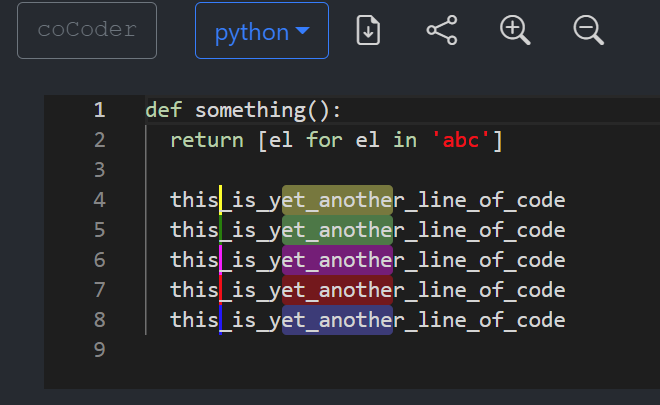
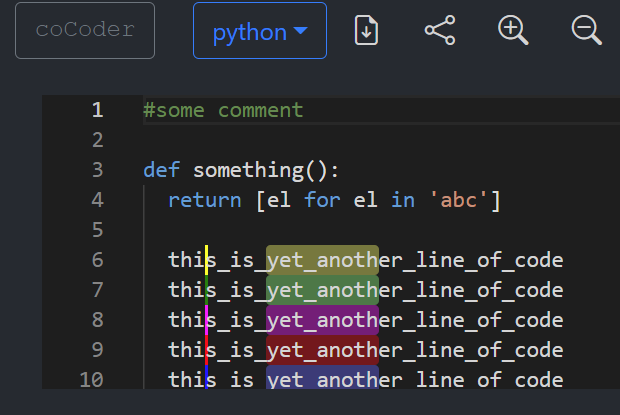
correction of handling themes

diff --git a/ui/src/app/editor.service.ts b/ui/src/app/editor.service.ts
@@ -22,7 +22,6 @@ export class EditorService implements OnDestroy {
   editor?: monaco.editor.IStandaloneCodeEditor;
   language!: string;
   fontSize: number;
-  theme: string;
   oldDecorations: string[];
   currentDecorations: DecorationDescription[];
   editsSubject: Subject<void>;
@@ -40,7 +39,7 @@ export class EditorService implements OnDestroy {
     private themeService: ThemeService,
     private editorControllerService: EditorControllerService,
     private fileSaverService: FileSaverService) {
-    this.theme = themeService.editorThemeName();
+    monaco.editor.setTheme(themeService.editorThemeName());
 
     this.oldDecorations = [];
     this.currentDecorations = [];
@@ -60,7 +59,7 @@ export class EditorService implements OnDestroy {
       next: _ => {
         this.fileSaverService.saveText(this.Text(), `code.${this.GetLanguageExtension()}`);
       }
-    })
+    });
   }
 
   GetLanguageExtension(): string {
@@ -151,18 +150,11 @@ export class EditorService implements OnDestroy {
     )
   }
 
-  createOptions(): monaco.editor.IStandaloneEditorConstructionOptions {
-    return {
-      theme: this.theme,
-    }
-  }
-
   updateOptions() {
     this.editor!.updateOptions({
       cursorBlinking: 'smooth',
       fontSize: this.fontSize,
       showUnused: true,
-      theme: this.theme,
       scrollbar: {
         verticalScrollbarSize: 0,
       },
@@ -274,8 +266,7 @@ export class EditorService implements OnDestroy {
   }
 
   SetTheme(t: string) {
-    this.theme = t;
-    this.updateOptions();
+    monaco.editor.setTheme(t);
   }
 
   userToDecoration(u: User): DecorationDescription {

diff --git a/ui/src/app/session-view/session-view.component.spec.ts b/ui/src/app/session-view/session-view.component.spec.ts
@@ -24,7 +24,9 @@ describe('SessionViewComponent', () => {
   let themeService: ThemeService;
   let sessionObservable: Observable<EditResponse>;
 
-  let testText = `def something():
+  let testText = `#some comment
+  
+def something():
   return [el for el in 'abc']
   
   this_is_yet_another_line_of_code
@@ -131,7 +133,7 @@ describe('SessionViewComponent', () => {
 });
 
 function generateCursors(): User[] {
-  const firstUserPosition = 59;
+  const firstUserPosition = 77;
   const selectionStartAddition = 5;
   const selectionEndAddition = 14;
   const userOffset = 36;

diff --git a/ui/src/app/session-view/session-view.component.ts b/ui/src/app/session-view/session-view.component.ts
@@ -140,8 +140,4 @@ export class SessionViewComponent implements OnInit, OnDestroy {
     this.apiService.UpdateSession(this.lastBaseText, newText, this.editorService.Position(), this.editorService.OtherUsers(), this.editorService.Selection());
     this.lastBaseText = newText;
   }
-
-  editorCreateOptions() {
-    return this.editorService.createOptions();
-  }
 }
